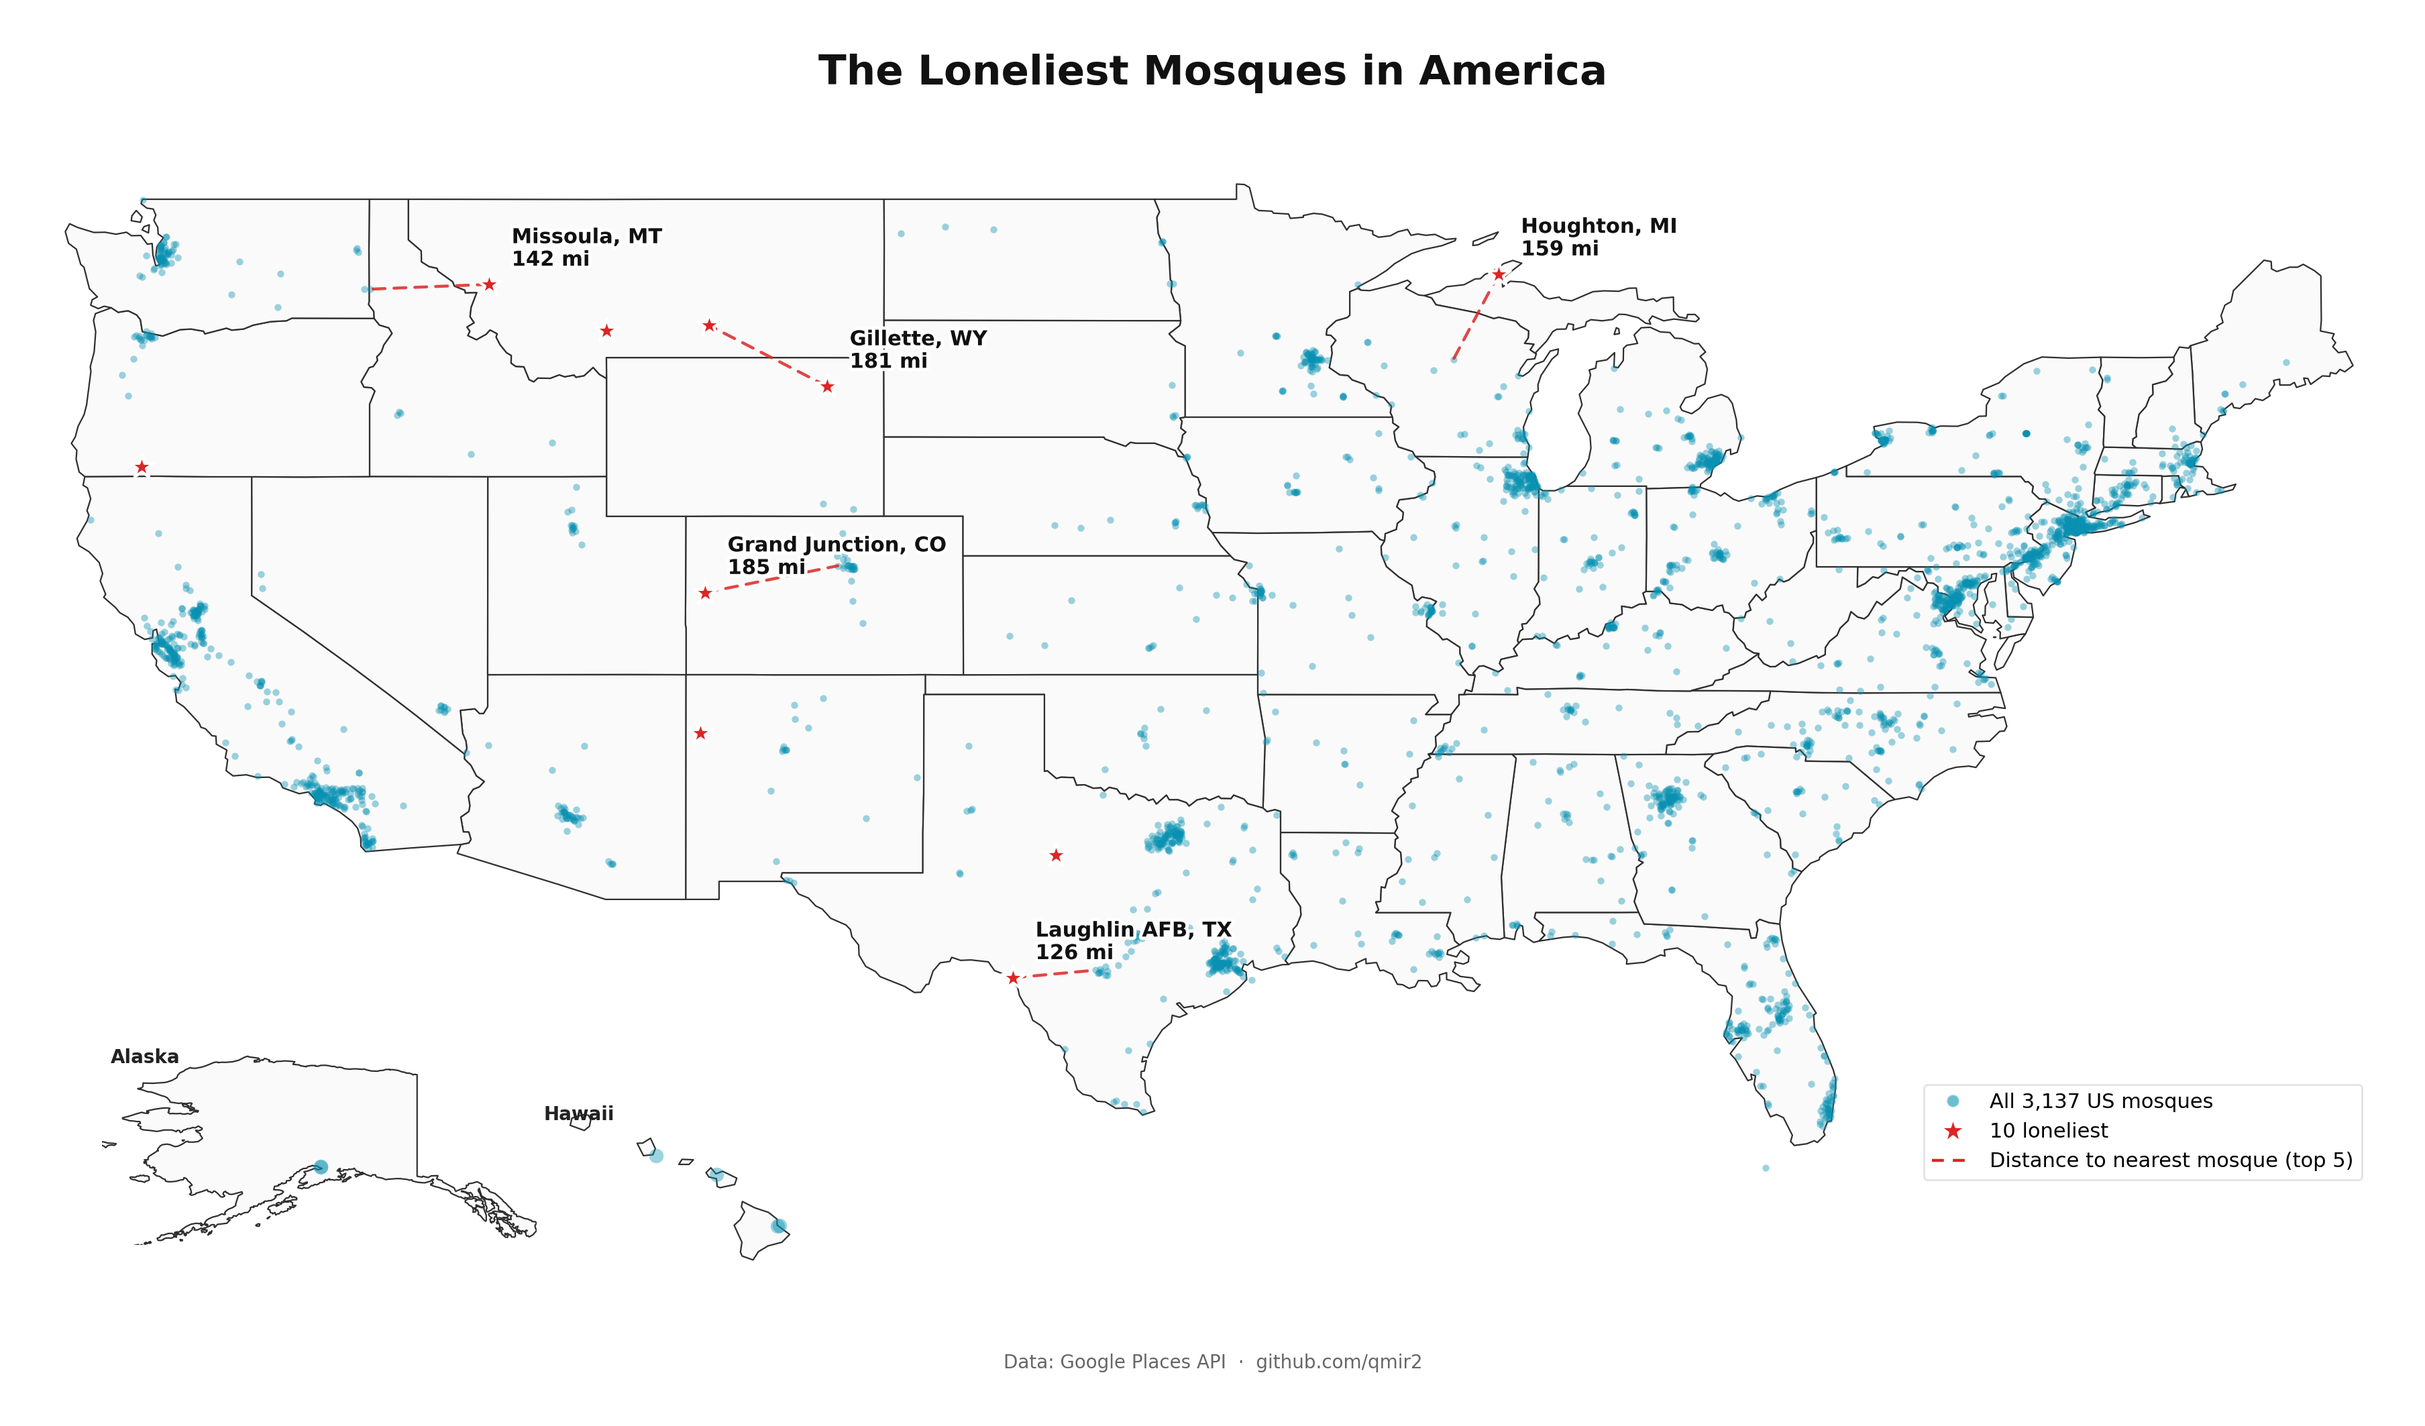
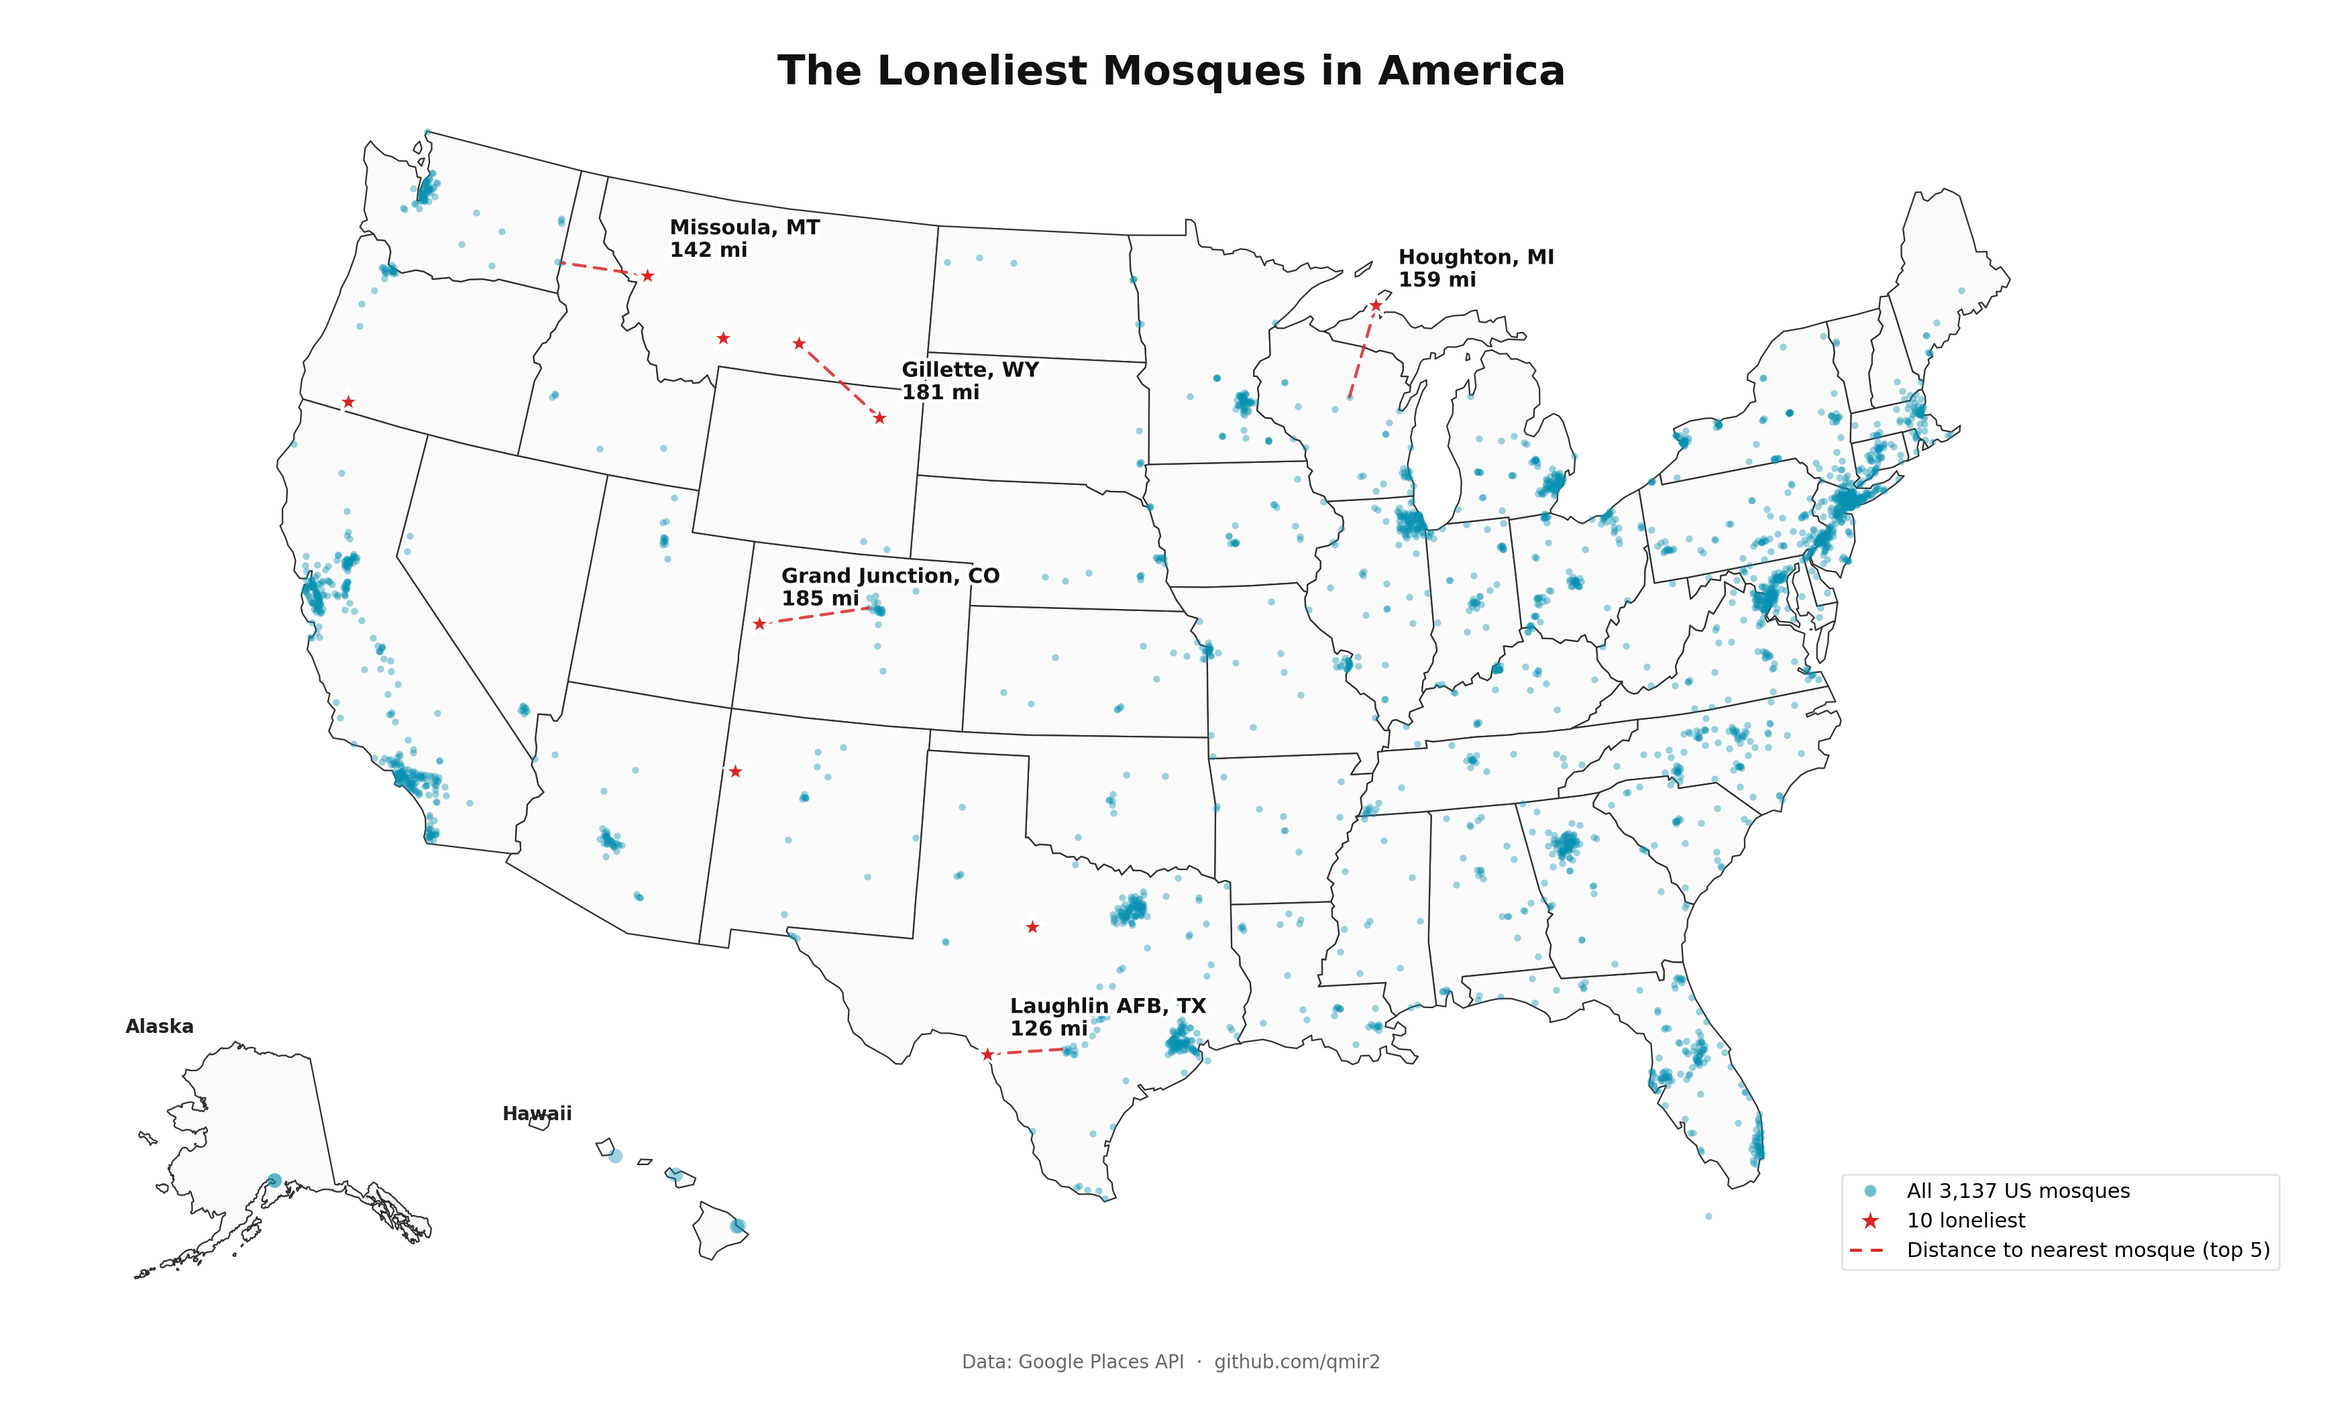
Use Albers Equal Area Conic Map

diff --git a/analysis/loneliest_points_map.py b/analysis/loneliest_points_map.py
@@ -1,0 +1,198 @@
+"""
+Render 'The Loneliest Places in America to be a Muslim' map.
+
+Uses a Voronoi diagram over all US mosque locations. The vertices of the
+Voronoi diagram are the local maxima of "distance to nearest mosque." The
+point on land with the largest such distance is the loneliest place.
+
+Output: results/loneliest_points_map.png
+"""
+
+import glob
+import json
+import os
+import sys
+
+import matplotlib.pyplot as plt
+import numpy as np
+import requests
+from matplotlib import patheffects
+from matplotlib.collections import LineCollection, PatchCollection
+from matplotlib.patches import Polygon as MplPolygon
+from scipy.spatial import Voronoi, cKDTree
+from shapely.geometry import MultiPolygon, Point, shape
+
+sys.path.insert(0, os.path.dirname(os.path.dirname(os.path.abspath(__file__))))
+from seed_mosques_google import haversine_m
+
+
+MOSQUE_DOT_COLOR = "#0891b2"
+LONELY_COLOR = "#dc2626"
+STATE_FILL = "#fafafa"
+STATE_EDGE = "#2f2f2f"
+VORONOI_EDGE = "#cccccc"
+
+CONTIGUOUS_BBOX = (-125, -66.5, 24, 50)
+KM_TO_MI = 0.621371
+
+
+def load_mosques():
+    mosques = []
+    for f in sorted(glob.glob("data/mosques_google_*.json")):
+        region = os.path.basename(f).replace("mosques_google_", "").replace(".json", "")
+        if region == "chicagoland":
+            continue
+        with open(f, encoding="utf-8") as fp:
+            mosques.extend(json.load(fp))
+    return mosques
+
+
+def load_us_states_geojson():
+    url = "https://raw.githubusercontent.com/PublicaMundi/MappingAPI/master/data/geojson/us-states.json"
+    r = requests.get(url, timeout=30)
+    r.raise_for_status()
+    return r.json()
+
+
+def build_us_union(gj):
+    polys = []
+    for feature in gj["features"]:
+        geom = shape(feature["geometry"])
+        if geom.geom_type == "Polygon":
+            polys.append(geom)
+        elif geom.geom_type == "MultiPolygon":
+            polys.extend(geom.geoms)
+    return MultiPolygon(polys)
+
+
+def plot_states(ax, gj, bbox):
+    west, east, south, north = bbox
+    patches = []
+    for feature in gj["features"]:
+        geom = feature["geometry"]
+        if geom["type"] == "Polygon":
+            polys = [geom["coordinates"]]
+        elif geom["type"] == "MultiPolygon":
+            polys = geom["coordinates"]
+        else:
+            continue
+        for poly in polys:
+            ring = poly[0]
+            lons = [p[0] for p in ring]
+            lats = [p[1] for p in ring]
+            if max(lons) < west or min(lons) > east or max(lats) < south or min(lats) > north:
+                continue
+            patches.append(MplPolygon(ring, closed=True))
+    pc = PatchCollection(patches, facecolor=STATE_FILL, edgecolor=STATE_EDGE, linewidths=0.8, zorder=1)
+    ax.add_collection(pc)
+
+
+def plot_voronoi_edges(ax, vor, bbox):
+    """Draw finite Voronoi ridges as thin lines."""
+    segments = []
+    center = vor.points.mean(axis=0)
+    ptp_bound = np.ptp(vor.points, axis=0) * 10
+    for pointidx, simplex in zip(vor.ridge_points, vor.ridge_vertices):
+        simplex = np.asarray(simplex)
+        if np.all(simplex >= 0):
+            segments.append(vor.vertices[simplex])
+        else:
+            i = simplex[simplex >= 0][0]
+            t = vor.points[pointidx[1]] - vor.points[pointidx[0]]
+            t /= np.linalg.norm(t)
+            n = np.array([-t[1], t[0]])
+            midpoint = vor.points[pointidx].mean(axis=0)
+            direction = np.sign(np.dot(midpoint - center, n)) * n
+            far = vor.vertices[i] + direction * ptp_bound.max()
+            segments.append([vor.vertices[i], far])
+    lc = LineCollection(segments, colors=VORONOI_EDGE, linewidths=0.4, zorder=2)
+    ax.add_collection(lc)
+
+
+def main():
+    print("Loading mosques...")
+    mosques = load_mosques()
+    contig = [m for m in mosques
+              if CONTIGUOUS_BBOX[0] <= m["lon"] <= CONTIGUOUS_BBOX[1]
+              and CONTIGUOUS_BBOX[2] <= m["lat"] <= CONTIGUOUS_BBOX[3]]
+    print(f"  {len(contig)} mosques in contiguous US")
+
+    print("Computing Voronoi diagram...")
+    pts = np.array([[m["lon"], m["lat"]] for m in contig])
+    vor = Voronoi(pts)
+
+    print("Loading US states polygon...")
+    gj = load_us_states_geojson()
+    us_union = build_us_union(gj)
+
+    print("Finding loneliest points (Voronoi vertices inside US)...")
+    tree = cKDTree(pts)
+    candidates = []
+    for vx, vy in vor.vertices:
+        if not (CONTIGUOUS_BBOX[0] <= vx <= CONTIGUOUS_BBOX[1]
+                and CONTIGUOUS_BBOX[2] <= vy <= CONTIGUOUS_BBOX[3]):
+            continue
+        if not us_union.contains(Point(vx, vy)):
+            continue
+        _, idx = tree.query([vx, vy])
+        nearest = pts[idx]
+        d_km = haversine_m(vy, vx, nearest[1], nearest[0]) / 1000
+        candidates.append((d_km, vx, vy, contig[idx]))
+    candidates.sort(key=lambda x: -x[0])
+    top = candidates[:5]
+    print(f"  #1: ({top[0][2]:.3f}, {top[0][1]:.3f}) — {top[0][0] * KM_TO_MI:.0f} mi to nearest mosque")
+
+    print("Rendering map...")
+    fig = plt.figure(figsize=(18, 11), facecolor="white")
+    ax = fig.add_axes([0.02, 0.10, 0.96, 0.82])
+
+    plot_states(ax, gj, CONTIGUOUS_BBOX)
+
+    lons = [m["lon"] for m in contig]
+    lats = [m["lat"] for m in contig]
+    ax.scatter(lons, lats, s=10, color=MOSQUE_DOT_COLOR, alpha=0.5, zorder=3, linewidths=0,
+               label=f"All {len(contig):,} US mosques (contiguous)")
+
+    top_lons = [c[1] for c in top]
+    top_lats = [c[2] for c in top]
+    ax.scatter(top_lons, top_lats, s=220, color=LONELY_COLOR, marker="*",
+               edgecolors="white", linewidths=1.5, zorder=5, label="5 loneliest points")
+
+    stroke = [patheffects.withStroke(linewidth=3.5, foreground="white")]
+    label_offsets = [(14, 14), (14, 10), (14, -24), (-180, 14), (-180, -24)]
+    for i, ((d_km, vx, vy, nearest_m), offset) in enumerate(zip(top, label_offsets)):
+        mi = d_km * KM_TO_MI
+        text = f"#{i + 1}  {mi:.0f} mi\nto {nearest_m.get('city') or '?'}, {nearest_m.get('state') or '?'}"
+        ax.annotate(text, (vx, vy), textcoords="offset points", xytext=offset,
+                    fontsize=11, fontweight="bold", color="#111", zorder=6,
+                    path_effects=stroke)
+
+    ax.set_xlim(CONTIGUOUS_BBOX[0], CONTIGUOUS_BBOX[1])
+    ax.set_ylim(CONTIGUOUS_BBOX[2], CONTIGUOUS_BBOX[3])
+    ax.set_aspect("equal")
+    ax.set_axis_off()
+
+    fig.text(0.5, 0.91, "The Loneliest Places in America to be a Muslim",
+             ha="center", fontsize=22, fontweight="bold", color="#111")
+
+    from matplotlib.lines import Line2D
+    legend_elems = [
+        Line2D([0], [0], marker="o", color="w", markerfacecolor=MOSQUE_DOT_COLOR, markersize=7, alpha=0.6,
+               label=f"All {len(contig):,} US mosques"),
+        Line2D([0], [0], marker="*", color="w", markerfacecolor=LONELY_COLOR, markeredgecolor="white",
+               markersize=16, label="5 loneliest points"),
+    ]
+    ax.legend(handles=legend_elems, loc="lower right", frameon=True, fontsize=11,
+              facecolor="white", edgecolor="#ddd")
+
+    fig.text(0.5, 0.04, "Data: Google Places API  ·  github.com/qmir2",
+             ha="center", fontsize=10, color="#666")
+
+    os.makedirs("results", exist_ok=True)
+    out = "results/loneliest_points_map.png"
+    plt.savefig(out, dpi=200, bbox_inches="tight", pad_inches=0.4, facecolor="white")
+    print(f"Saved {out}")
+
+
+if __name__ == "__main__":
+    main()

diff --git a/analysis/loneliest_mosques_map.py b/analysis/loneliest_mosques_map.py
@@ -15,8 +15,22 @@ import requests
 from matplotlib import patheffects
 from matplotlib.collections import PatchCollection
 from matplotlib.patches import Polygon as MplPolygon
+from pyproj import Transformer
 
 KM_TO_MI = 0.621371
+
+# EPSG:5070 — NAD83 / Conus Albers. Equal-area projection optimized for CONUS.
+# EPSG:3338 — NAD83 / Alaska Albers.
+# Hawaii inset stays in equirectangular because at Hawaii's small spatial extent
+# the distortion is negligible and a single projection across insets would be
+# awkward.
+PROJ_CONUS = Transformer.from_crs("EPSG:4326", "EPSG:5070", always_xy=True)
+PROJ_ALASKA = Transformer.from_crs("EPSG:4326", "EPSG:3338", always_xy=True)
+
+
+def project(transformer, lon, lat):
+    x, y = transformer.transform(lon, lat)
+    return x, y
 
 sys.path.insert(0, os.path.dirname(os.path.dirname(os.path.abspath(__file__))))
 from seed_mosques_google import haversine_m
@@ -72,7 +86,7 @@ def load_us_states_geojson():
     return r.json()
 
 
-def plot_states(ax, gj, bbox):
+def plot_states(ax, gj, bbox, transformer=None):
     west, east, south, north = bbox
     patches = []
     for feature in gj["features"]:
@@ -89,28 +103,38 @@ def plot_states(ax, gj, bbox):
             lats = [p[1] for p in ring]
             if max(lons) < west or min(lons) > east or max(lats) < south or min(lats) > north:
                 continue
+            if transformer is not None:
+                ring = [project(transformer, lon, lat) for lon, lat in ring]
             patches.append(MplPolygon(ring, closed=True))
     pc = PatchCollection(patches, facecolor=STATE_FILL, edgecolor=STATE_EDGE, linewidths=0.8, zorder=1)
     ax.add_collection(pc)
 
 
-def plot_mosques(ax, mosques, loneliest, top_n_labeled, bbox, dot_size=14, star_size=170, label=True):
+def plot_mosques(ax, mosques, loneliest, top_n_labeled, bbox, dot_size=14, star_size=170, label=True, transformer=None):
     west, east, south, north = bbox
 
     def in_view(lat, lon):
         return south <= lat <= north and west <= lon <= east
 
-    lons = [m["lon"] for m in mosques if in_view(m["lat"], m["lon"])]
-    lats = [m["lat"] for m in mosques if in_view(m["lat"], m["lon"])]
-    ax.scatter(lons, lats, s=dot_size, color=MOSQUE_DOT_COLOR, alpha=0.4, zorder=2, linewidths=0)
+    def to_xy(lon, lat):
+        return project(transformer, lon, lat) if transformer is not None else (lon, lat)
+
+    xs, ys = [], []
+    for m in mosques:
+        if in_view(m["lat"], m["lon"]):
+            x, y = to_xy(m["lon"], m["lat"])
+            xs.append(x)
+            ys.append(y)
+    ax.scatter(xs, ys, s=dot_size, color=MOSQUE_DOT_COLOR, alpha=0.4, zorder=2, linewidths=0)
 
     for m in loneliest[:5]:
         if not (in_view(m["lat"], m["lon"]) or in_view(m["_nearest"]["lat"], m["_nearest"]["lon"])):
             continue
         n = m["_nearest"]
+        x1, y1 = to_xy(m["lon"], m["lat"])
+        x2, y2 = to_xy(n["lon"], n["lat"])
         ax.plot(
-            [m["lon"], n["lon"]],
-            [m["lat"], n["lat"]],
+            [x1, x2], [y1, y2],
             color=LONELY_COLOR,
             linewidth=1.6,
             linestyle=(0, (4, 3)),
@@ -119,11 +143,11 @@ def plot_mosques(ax, mosques, loneliest, top_n_labeled, bbox, dot_size=14, star_
             dash_capstyle="round",
         )
 
-    lone_in = [m for m in loneliest if in_view(m["lat"], m["lon"])]
-    if lone_in:
+    lone_xy = [to_xy(m["lon"], m["lat"]) for m in loneliest if in_view(m["lat"], m["lon"])]
+    if lone_xy:
         ax.scatter(
-            [m["lon"] for m in lone_in],
-            [m["lat"] for m in lone_in],
+            [p[0] for p in lone_xy],
+            [p[1] for p in lone_xy],
             s=star_size,
             color=LONELY_COLOR,
             marker="*",
@@ -142,9 +166,9 @@ def plot_mosques(ax, mosques, loneliest, top_n_labeled, bbox, dot_size=14, star_
             loc = f"{city}, {state}" if state else city
             miles = m["_nearest_km"] * KM_TO_MI
             text = f"{loc}\n{miles:.0f} mi"
+            x, y = to_xy(m["lon"], m["lat"])
             ax.annotate(
-                text,
-                (m["lon"], m["lat"]),
+                text, (x, y),
                 textcoords="offset points",
                 xytext=(12, 10),
                 fontsize=11,
@@ -154,8 +178,25 @@ def plot_mosques(ax, mosques, loneliest, top_n_labeled, bbox, dot_size=14, star_
                 path_effects=stroke,
             )
 
-    ax.set_xlim(west, east)
-    ax.set_ylim(south, north)
+    if transformer is not None:
+        # Sample points along the bbox boundary in lat/lon and project each —
+        # the projected bbox is curved, so corner-only projection clips real
+        # US territory (Florida Keys, southern Texas, northern Maine).
+        import numpy as _np
+        samples = []
+        for lon in _np.linspace(west, east, 40):
+            samples.append((lon, south))
+            samples.append((lon, north))
+        for lat in _np.linspace(south, north, 40):
+            samples.append((west, lat))
+            samples.append((east, lat))
+        xs_b = [project(transformer, lon, lat)[0] for lon, lat in samples]
+        ys_b = [project(transformer, lon, lat)[1] for lon, lat in samples]
+        ax.set_xlim(min(xs_b), max(xs_b))
+        ax.set_ylim(min(ys_b), max(ys_b))
+    else:
+        ax.set_xlim(west, east)
+        ax.set_ylim(south, north)
     ax.set_aspect("equal")
     ax.set_axis_off()
 
@@ -177,12 +218,12 @@ def main():
     fig = plt.figure(figsize=(18, 11), facecolor="white")
 
     main_ax = fig.add_axes([0.02, 0.10, 0.96, 0.82])
-    plot_states(main_ax, gj, CONTIGUOUS_BBOX)
-    plot_mosques(main_ax, mosques, loneliest, top_n_labeled=5, bbox=CONTIGUOUS_BBOX)
+    plot_states(main_ax, gj, CONTIGUOUS_BBOX, transformer=PROJ_CONUS)
+    plot_mosques(main_ax, mosques, loneliest, top_n_labeled=5, bbox=CONTIGUOUS_BBOX, transformer=PROJ_CONUS)
 
     ak_ax = fig.add_axes([0.04, 0.10, 0.18, 0.18])
-    plot_states(ak_ax, gj, ALASKA_BBOX)
-    plot_mosques(ak_ax, mosques, loneliest, top_n_labeled=0, bbox=ALASKA_BBOX, dot_size=60, star_size=140, label=False)
+    plot_states(ak_ax, gj, ALASKA_BBOX, transformer=PROJ_ALASKA)
+    plot_mosques(ak_ax, mosques, loneliest, top_n_labeled=0, bbox=ALASKA_BBOX, dot_size=60, star_size=140, label=False, transformer=PROJ_ALASKA)
     ak_ax.text(0.02, 0.93, "Alaska", transform=ak_ax.transAxes, fontsize=10, fontweight="bold", color="#222")
 
     hi_ax = fig.add_axes([0.22, 0.10, 0.12, 0.12])
